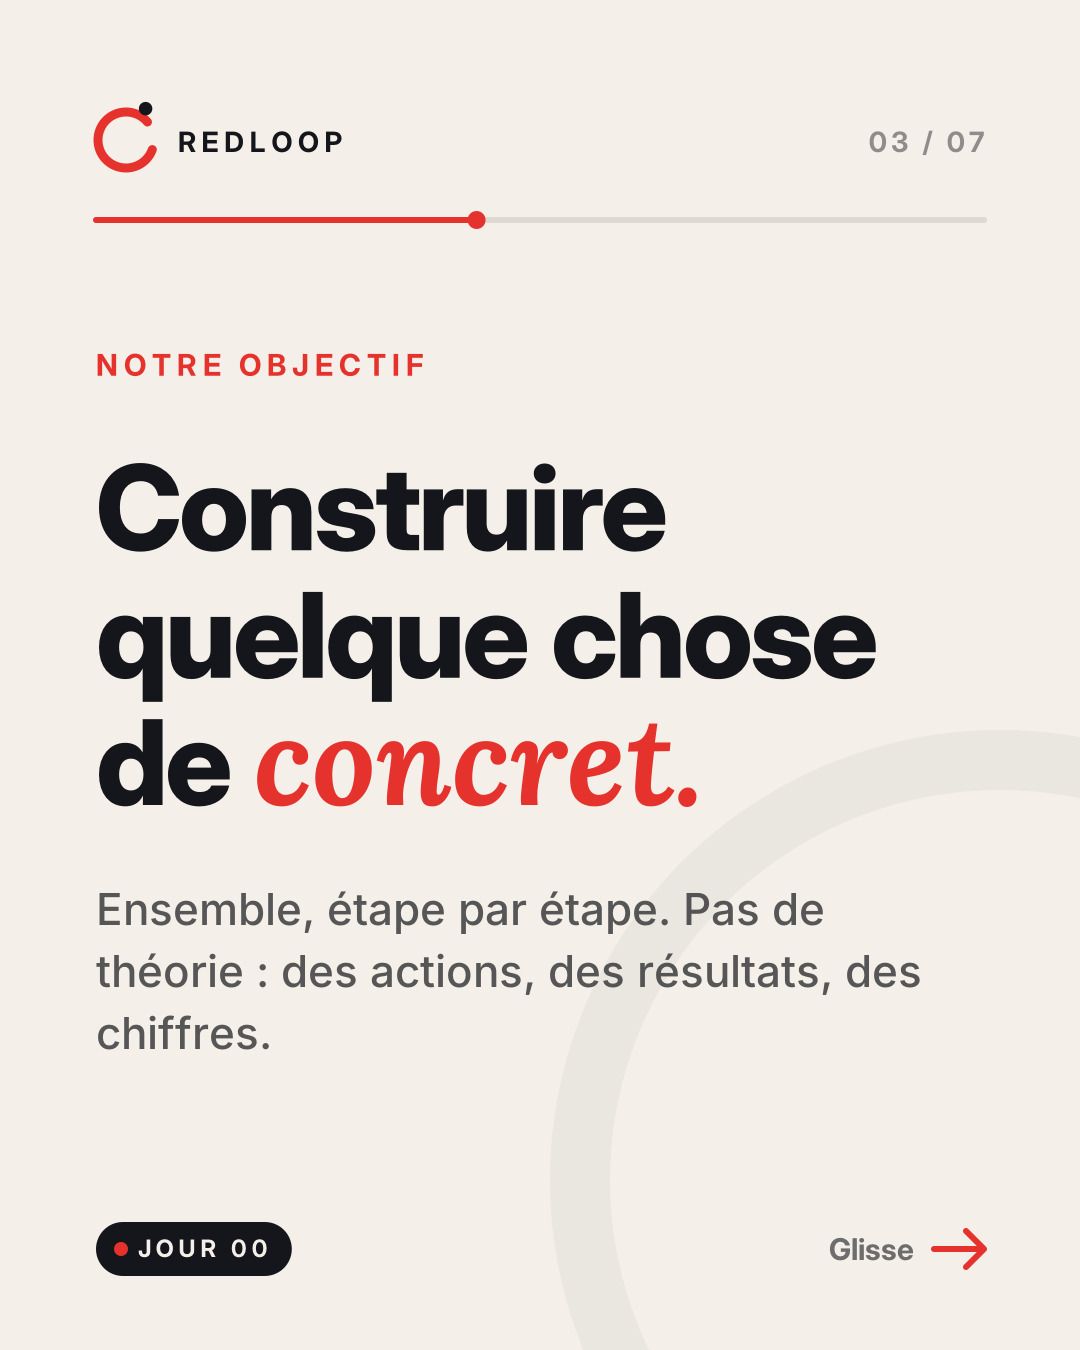
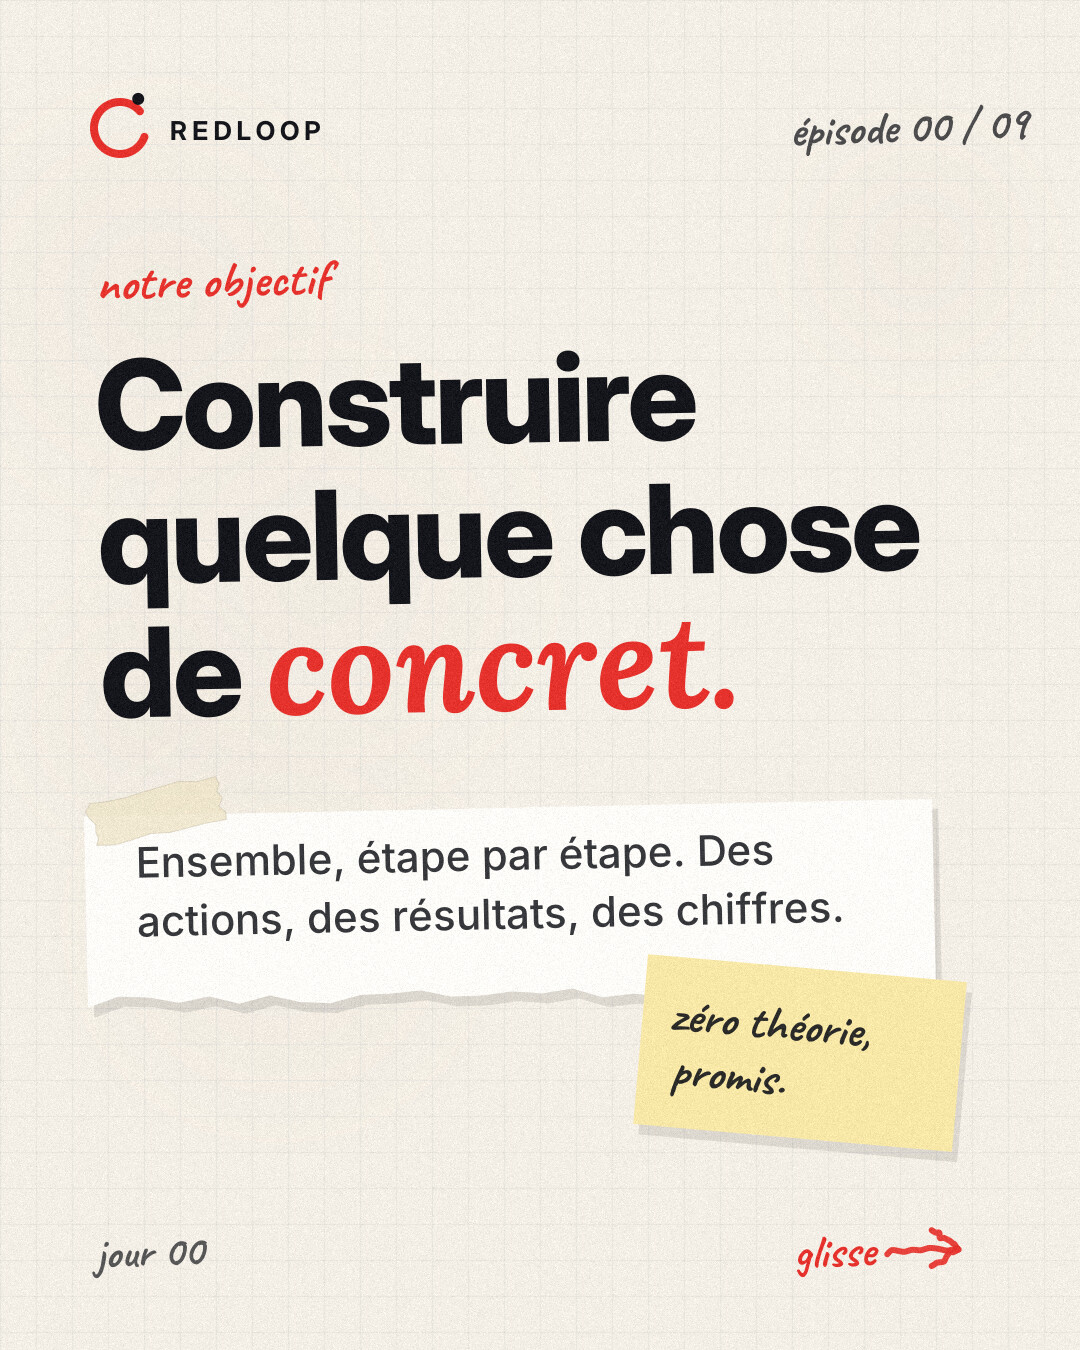
Manifesto in DIY notebook style
Claude-Session: https://claude.ai/code/session_01MjHNHLtyk6pBPoVN5YbS1c

diff --git a/motion/diy.py b/motion/diy.py
@@ -1,0 +1,91 @@
+"""Redloop DIY layer: paper, tape, scraps, marker annotations, handwriting."""
+import sys, math, random, cairo, numpy as np, subprocess
+sys.path.insert(0, "/home/claude/motion")
+from redloop_motion import INK, RED, BG, width, text, font, loop_mark, caps, kinetic, wrap, disk, rrect
+CW, CH = 1080, 1350
+PAPER = (0.957, 0.937, 0.902); SCRAP = (0.99, 0.985, 0.97); POSTIT = (0.97, 0.91, 0.66)
+
+def hand(ctx, x, y, s, size, col=RED, a=1.0, ang=0.0, fam="Caveat"):
+    ctx.save(); ctx.translate(x, y); ctx.rotate(math.radians(ang))
+    ctx.select_font_face(fam, cairo.FONT_SLANT_NORMAL, cairo.FONT_WEIGHT_BOLD); ctx.set_font_size(size)
+    ctx.set_source_rgba(*col, a); ctx.move_to(0, 0); ctx.show_text(s); w = ctx.text_extents(s).x_advance
+    ctx.restore(); return w
+
+def paper(ctx, seed=1):
+    rnd = random.Random(seed)
+    ctx.set_source_rgb(*PAPER); ctx.paint()
+    ctx.set_line_width(1.2)
+    for x in range(0, CW, 36):
+        ctx.set_source_rgba(0.35, 0.45, 0.6, 0.07); ctx.move_to(x + .5, 0); ctx.line_to(x + .5, CH); ctx.stroke()
+    for y in range(0, CH, 36):
+        ctx.set_source_rgba(0.35, 0.45, 0.6, 0.07); ctx.move_to(0, y + .5); ctx.line_to(CW, y + .5); ctx.stroke()
+    for _ in range(5):  # faint stains
+        cx, cy, r = rnd.uniform(0, CW), rnd.uniform(0, CH), rnd.uniform(120, 300)
+        g = cairo.RadialGradient(cx, cy, 0, cx, cy, r); g.add_color_stop_rgba(0, .55, .45, .3, .035); g.add_color_stop_rgba(1, .55, .45, .3, 0)
+        ctx.set_source(g); ctx.paint()
+
+def tape(ctx, x, y, w, h, ang, seed=0):
+    rnd = random.Random(seed); ctx.save(); ctx.translate(x, y); ctx.rotate(math.radians(ang))
+    ctx.new_path(); ctx.move_to(-w/2, -h/2)
+    for i in range(7): ctx.line_to(-w/2 + w * (i + 1) / 7, -h/2 + rnd.uniform(-3, 3))
+    for i in range(6): ctx.line_to(w/2 + rnd.uniform(-5, 5), -h/2 + h * (i + 1) / 6)
+    for i in range(7): ctx.line_to(w/2 - w * (i + 1) / 7, h/2 + rnd.uniform(-3, 3))
+    for i in range(6): ctx.line_to(-w/2 + rnd.uniform(-5, 5), h/2 - h * (i + 1) / 6)
+    ctx.close_path(); ctx.set_source_rgba(0.93, 0.89, 0.78, 0.78); ctx.fill_preserve()
+    ctx.set_source_rgba(0.6, 0.55, 0.45, 0.25); ctx.set_line_width(1); ctx.stroke(); ctx.restore()
+
+def scrap(ctx, x, y, w, h, ang, color=SCRAP, seed=0, torn=True):
+    rnd = random.Random(seed); ctx.save(); ctx.translate(x + w/2, y + h/2); ctx.rotate(math.radians(ang))
+    def path(dx=0, dy=0):
+        ctx.new_path(); ctx.move_to(-w/2 + dx, -h/2 + dy); ctx.line_to(w/2 + dx, -h/2 + dy); ctx.line_to(w/2 + dx, h/2 + dy)
+        n = 28
+        for i in range(n): ctx.line_to(w/2 - w * (i + 1) / n + dx, h/2 + dy + (rnd.uniform(-7, 5) if torn else 0))
+        ctx.close_path()
+    st = rnd.getstate()
+    path(6, 10); ctx.set_source_rgba(0, 0, 0, 0.10); ctx.fill()
+    rnd.setstate(st); path(); ctx.set_source_rgb(*color); ctx.fill()
+    ctx.restore()
+
+def wobble_pts(pts, amp, seed):
+    rnd = random.Random(seed); return [(x + rnd.uniform(-amp, amp), y + rnd.uniform(-amp, amp)) for x, y in pts]
+
+def stroke_smooth(ctx, pts, col=RED, w=7, a=0.92):
+    ctx.set_source_rgba(*col, a); ctx.set_line_width(w); ctx.set_line_cap(cairo.LINE_CAP_ROUND); ctx.set_line_join(cairo.LINE_JOIN_ROUND)
+    ctx.new_path(); ctx.move_to(*pts[0])
+    for i in range(1, len(pts) - 1):
+        mx, my = (pts[i][0] + pts[i+1][0]) / 2, (pts[i][1] + pts[i+1][1]) / 2
+        ctx.curve_to(pts[i][0], pts[i][1], pts[i][0], pts[i][1], mx, my)
+    ctx.line_to(*pts[-1]); ctx.stroke()
+
+def marker_circle(ctx, cx, cy, rx, ry, seed=0, col=RED, w=7):
+    rnd = random.Random(seed); pts = []; turns = 1.12; n = 40; a0 = rnd.uniform(0, 6.28)
+    for i in range(n + 1):
+        t = a0 + turns * 2 * math.pi * i / n; k = 1 + 0.06 * math.sin(i * 0.7 + seed) + rnd.uniform(-.02, .02)
+        pts.append((cx + rx * k * math.cos(t), cy + ry * k * math.sin(t) * (1 + 0.04 * i / n)))
+    stroke_smooth(ctx, pts, col, w)
+
+def marker_line(ctx, x0, y0, x1, y1, seed=0, col=RED, w=7, bend=10):
+    n = 8; pts = [(x0 + (x1-x0)*i/n, y0 + (y1-y0)*i/n + math.sin(i/n*math.pi) * bend) for i in range(n + 1)]
+    stroke_smooth(ctx, wobble_pts(pts, 2.5, seed), col, w)
+
+def marker_arrow(ctx, x0, y0, x1, y1, seed=0, col=RED, w=7, bend=-40):
+    marker_line(ctx, x0, y0, x1, y1, seed, col, w, bend)
+    ang = math.atan2(y1 - y0 - 0, x1 - x0); L = 30
+    for d in (2.55, -2.55):
+        marker_line(ctx, x1, y1, x1 + L * math.cos(ang + d), y1 + L * math.sin(ang + d), seed + 3, col, w, 0)
+
+def strike(ctx, x0, x1, y, seed=0, col=RED, w=8):
+    marker_line(ctx, x0 - 8, y + 6, x1 + 8, y - 4, seed, col, w, 4)
+
+def header(ctx, ep, total, label, seed=0):
+    loop_mark(ctx, 120, 128, 26, 8); caps(ctx, 170, 140, "REDLOOP", 26, INK)
+    hand(ctx, CW - 300, 145, f"épisode {ep:02d} / {total:02d}", 46, INK, .75, -2)
+    hand(ctx, 96, 222, label, 40, RED, 1, -1.5)
+
+def finish(surf, path_png, path_jpg=None, seed=0):
+    rng = np.random.default_rng(seed)
+    a = np.frombuffer(surf.get_data(), np.uint8).reshape(CH, CW, 4).astype(np.int16)
+    a[..., :3] += rng.normal(0, 5, (CH, CW, 1)).astype(np.int16)
+    out = np.clip(a, 0, 255).astype(np.uint8)
+    s2 = cairo.ImageSurface.create_for_data(bytearray(out.tobytes()), cairo.FORMAT_ARGB32, CW, CH); s2.write_to_png(path_png)
+    if path_jpg: subprocess.run(["convert", path_png, "-quality", "90", path_jpg], check=True)

diff --git a/motion/diy_carousel.py b/motion/diy_carousel.py
@@ -1,0 +1,75 @@
+import sys, math, subprocess; sys.path.insert(0, "/home/claude/motion")
+from diy import *
+from carousel_erreurs import fit, MAXW
+from redloop_motion import MX, WHITE, PAPER as CARD
+
+def base(ep, total, seed):
+    s = cairo.ImageSurface(cairo.FORMAT_ARGB32, CW, CH); c = cairo.Context(s); paper(c, seed)
+    loop_mark(c, 120, 128, 26, 8); caps(c, 170, 140, "REDLOOP", 26, INK)
+    hand(c, CW - 290, 146, f"épisode {ep:02d} / {total:02d}", 46, INK, .75, -2)
+    return s, c
+
+def label(c, s, y=300, ang=-1.5): hand(c, MX, y, s, 50, RED, 1, ang)
+
+def title(c, lines, y, size=118, ang=-1.0):
+    sz = fit(c, lines, size); c.save(); c.translate(MX, y); c.rotate(math.radians(ang))
+    kinetic(c, 99, lines, 0, 0, sz); c.restore(); return y + (len(lines) - 1) * sz * 1.08
+
+def sub_scrap(c, txt, y, ang=1.2, seed=0, fs=42):
+    lines = wrap(c, txt, fs, MAXW - 120, "text"); h = 70 + len(lines) * fs * 1.4
+    scrap(c, MX - 10, y, MAXW - 40, h, ang, SCRAP, seed)
+    tape(c, MX + 60, y + 4, 130, 44, -12, seed + 1)
+    c.save(); c.translate(MX + 40, y + 70); c.rotate(math.radians(ang))
+    for i, l in enumerate(lines): text(c, 0, i * fs * 1.4, l, fs, INK, .85, "text", 0)
+    c.restore(); return y + h
+
+def postit(c, x, y, lines, ang=3, w=380, fs=44, seed=0):
+    h = 60 + len(lines) * fs * 1.15; scrap(c, x, y, w, h, ang, POSTIT, seed, torn=False)
+    for i, l in enumerate(lines): hand(c, x + 30, y + 62 + i * fs * 1.15, l, fs, INK, .9, ang)
+
+def footer(c, last, day):
+    hand(c, MX, 1268, f"jour {day:02d}", 44, INK, .7, -2)
+    if not last:
+        w = hand(c, CW - MX - 190, 1268, "glisse", 46, RED, 1, -2)
+        x0 = CW - MX - 180 + w; marker_line(c, x0, 1252, x0 + 70, 1248, 2, RED, 6, 0)
+        marker_line(c, x0 + 48, 1230, x0 + 72, 1248, 3, RED, 6, 0); marker_line(c, x0 + 48, 1268, x0 + 72, 1248, 4, RED, 6, 0)
+
+def checkbox(c, x, y, seed):
+    pts = wobble_pts([(x, y), (x + 40, y - 2), (x + 42, y + 40), (x + 1, y + 42), (x, y)], 2, seed)
+    stroke_smooth(c, pts, INK, 4, .8)
+    stroke_smooth(c, wobble_pts([(x + 6, y + 20), (x + 18, y + 36), (x + 52, y - 12)], 2, seed + 1), RED, 7)
+
+def check_list(c, items, y, seed=0, fs=40):
+    rows = [wrap(c, it, fs, MAXW - 190, "medium") for it in items]
+    h = 70 + sum(len(r) * fs * 1.35 + 34 for r in rows)
+    scrap(c, MX - 10, y, MAXW - 20, h, -1, SCRAP, seed); tape(c, CW / 2, y + 2, 170, 46, 4, seed + 2)
+    yy = y + 80
+    for i, r in enumerate(rows):
+        checkbox(c, MX + 30, yy - 34, seed + i * 7)
+        for j, l in enumerate(r): text(c, MX + 110, yy + j * fs * 1.35, l, fs, INK, 1, "medium", 0)
+        yy += len(r) * fs * 1.35 + 34
+    return y + h
+
+def num_list(c, items, y, seed=0, fs=40):
+    rows = [wrap(c, it, fs, MAXW - 190, "medium") for it in items]
+    h = 70 + sum(len(r) * fs * 1.35 + 30 for r in rows)
+    scrap(c, MX - 10, y, MAXW - 20, h, 1, SCRAP, seed); tape(c, MX + 80, y + 2, 150, 44, -10, seed + 2)
+    yy = y + 80
+    for i, r in enumerate(rows):
+        marker_circle(c, MX + 52, yy - 14, 26, 26, seed + i, RED, 5)
+        hand(c, MX + 40, yy + 2, str(i + 1), 46, RED, 1, 0)
+        for j, l in enumerate(r): text(c, MX + 110, yy + j * fs * 1.35, l, fs, INK, 1, "medium", 0)
+        yy += len(r) * fs * 1.35 + 30
+    return y + h
+
+def promise(c, x, y, txt, ang, seed):
+    font(c, 40, "bold"); w = width(c, txt, 40, "bold", 0) + 70
+    scrap(c, x, y, w, 96, ang, INK, seed, torn=False)
+    c.save(); c.translate(x + w / 2, y + 48); c.rotate(math.radians(ang))
+    text(c, -w / 2 + 35, 14, txt, 40, (0.88, 0.76, 0.45), 1, "bold", 0)
+    strike(c, -w / 2 + 25, w / 2 - 25, 0, seed, RED, 9); c.restore()
+    tape(c, x + 10, y + 10, 80, 34, -35, seed + 5)
+    return w
+
+def save(s, name, seed):
+    finish(s, f"/home/claude/motion/out/diy/{name}.png", f"/home/claude/redloop-visualx/posts/{name}.jpg", seed)

diff --git a/motion/diy_post1.py b/motion/diy_post1.py
@@ -1,0 +1,60 @@
+import sys; sys.path.insert(0, "/home/claude/motion")
+from diy_carousel import *
+EP, TOT, DAY, N = 0, 9, 0, 7
+
+def s1():
+    s, c = base(EP, TOT, 11)
+    y = title(c, ["On lance", "un business", "*en~direct.*"], 520, 136)
+    hand(c, 640, 400, "pour de vrai.", 62, RED, 1, -7)
+    marker_arrow(c, 760, 420, 700, 560, 1, RED, 6, -25)
+    sub_scrap(c, "Avec une IA, de zéro, et les vrais chiffres. Rien de caché.", y + 90, 1.5, 3)
+    footer(c, False, DAY); save(s, "post1_1", 1)
+
+def s2():
+    s, c = base(EP, TOT, 12); label(c, "le constat")
+    y = title(c, ["Les réseaux", "sont pleins de", "*promesses.*"], 440, 120)
+    promise(c, 110, y + 90, "Revenu 100 % passif", -3, 21)
+    promise(c, 380, y + 230, "Sans aucune expérience", 2.5, 22)
+    promise(c, 130, y + 370, "Résultats garantis", -1.5, 23)
+    hand(c, 600, y + 470, "la plupart : faux.", 64, RED, 1, -5)
+    footer(c, False, DAY); save(s, "post1_2", 2)
+
+def s3():
+    s, c = base(EP, TOT, 13); label(c, "notre objectif")
+    y = title(c, ["Construire", "quelque chose", "de *concret.*"], 450, 124)
+    sub_scrap(c, "Ensemble, étape par étape. Des actions, des résultats, des chiffres.", y + 90, -1.2, 5)
+    postit(c, 640, y + 250, ["zéro théorie,", "promis."], 5, 320, 48, 8)
+    footer(c, False, DAY); save(s, "post1_3", 3)
+
+def s4():
+    s, c = base(EP, TOT, 14); label(c, "ce que tu verras ici")
+    y = title(c, ["Tout, même", "les *échecs.*"], 440, 110)
+    check_list(c, ["Ce qu'on teste, et pourquoi", "Combien ça coûte, combien ça rapporte", "Ce qui marche, et ce qui rate", "Les décisions qu'on prend avec toi"], y + 90, 31)
+    footer(c, False, DAY); save(s, "post1_4", 4)
+
+def s5():
+    s, c = base(EP, TOT, 15); label(c, "la méthode")
+    y = title(c, ["Le trafic", "d'abord.", "Le produit", "*ensuite.*"], 440, 120)
+    hand(c, 760, 470, "1", 90, RED, 1, 0); marker_circle(c, 784, 440, 44, 44, 3, RED, 6)
+    hand(c, 760, 730, "2", 90, RED, 1, 0); marker_circle(c, 784, 700, 44, 44, 4, RED, 6)
+    sub_scrap(c, "Pas de formation à vendre. Pas de business clé en main. On construit l'audience, puis on crée ce qu'elle demande.", y + 90, 1, 9, 38)
+    footer(c, False, DAY); save(s, "post1_5", 5)
+
+def s6():
+    s, c = base(EP, TOT, 16); label(c, "point de départ")
+    y = title(c, ["Jour *zéro.*"], 560, 170)
+    postit(c, 140, y + 110, ["0 abonné", "0 produit", "0 €"], -4, 360, 58, 12)
+    hand(c, 560, y + 260, "on commence par", 52, INK, .8, -3)
+    hand(c, 560, y + 320, "démonter les", 52, INK, .8, -3)
+    hand(c, 560, y + 390, "fausses promesses.", 60, RED, 1, -3)
+    footer(c, False, DAY); save(s, "post1_6", 6)
+
+def s7():
+    s, c = base(EP, TOT, 17); label(c, "avant de construire")
+    y = title(c, ["On démonte", "d'abord les *pièges*"], 420, 88)
+    y2 = num_list(c, ["Le business « clé en main »", "Les formations à promesse de revenus", "Pronostics et signaux « gagnants »", "Vente en réseau et recrutement", "Boutiques « IA » à revenu passif"], y + 60, 41, 36)
+    postit(c, 640, y2 + 20, ["samedi :", "épisode 01"], 4, 320, 46, 15)
+    hand(c, MX, y2 + 110, "lequel tu as", 54, RED, 1, -3)
+    hand(c, MX, y2 + 170, "déjà croisé ?", 54, RED, 1, -3); save(s, "post1_7", 7)
+
+for f in (s1, s2, s3, s4, s5, s6, s7): f()
